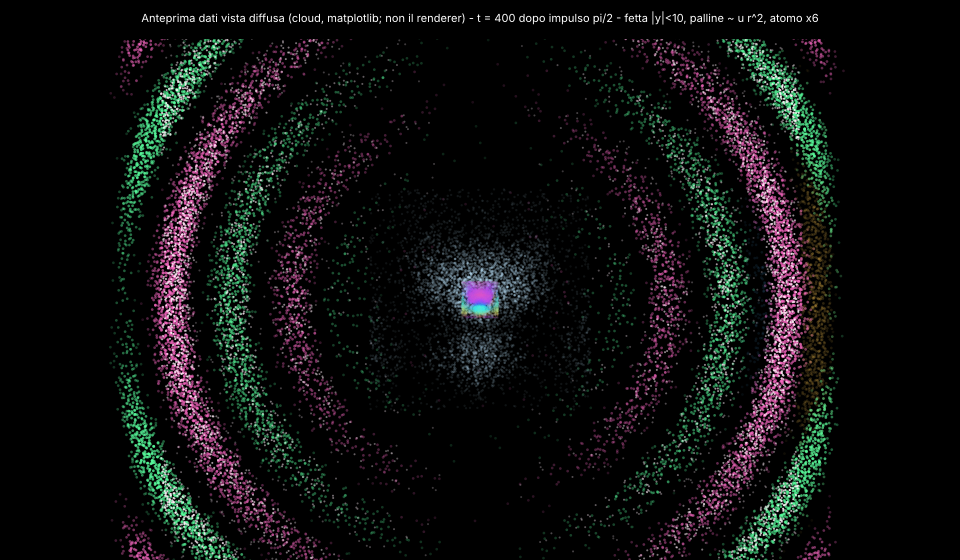
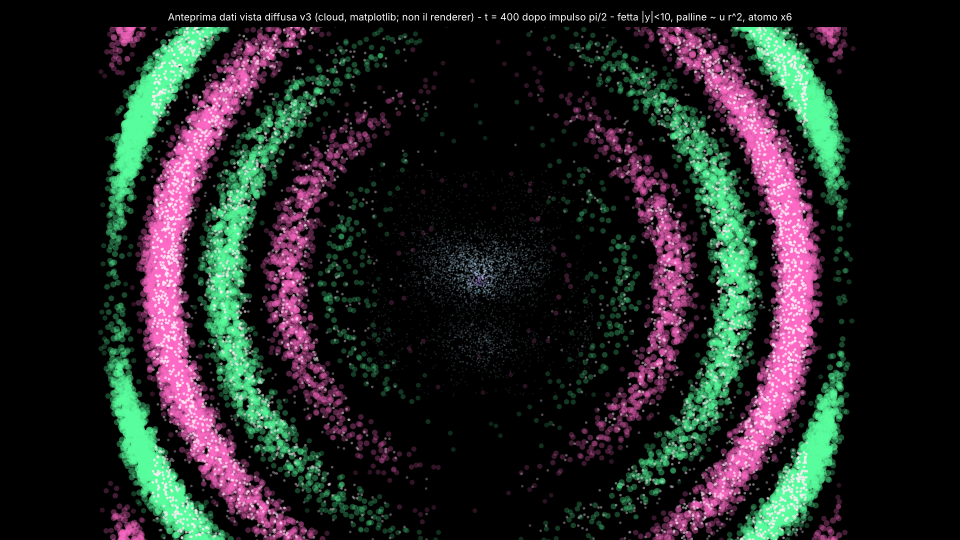
vista diffusa v3: nuvola x6 da campioni di |psi|^2 (via la linea dei surfisti), bagliori di luce diffusa piu' grandi scalati con l'energia, impulso libero sulla scala fissa della partenza; foto 3 in coda

diff --git a/src/atomo/zzscena.rs b/src/atomo/zzscena.rs
@@ -252,19 +252,22 @@ fn palline_luce(m: &Mondo, diffusa: bool) -> Vec<Ball> {
     match (&e.luce.sc, diffusa) {
         (Some(sc), true) => {
             // the free pulse: same slab, own scale (∝ u), dimmed × 0.25
-            let mut v = fetta(&e.luce.f.f, None, false, 0.25, [[1.0, 0.78, 0.32], [0.35, 0.72, 1.0]]);
+            // on the FIXED scale of its launch (u_ref = 2 e_ref², E and B in phase at a crest), so it fades as it leaves
+            let mut v = if m.e_ref > 0.0 { fetta(&e.luce.f.f, Some(2.0 * m.e_ref * m.e_ref), false, 0.2, [[1.0, 0.78, 0.32], [0.35, 0.72, 1.0]]) } else { vec![] };
             if m.e_ref > 0.0 && m.w_max > 0.0 {
                 v.extend(fetta(&sc.f, Some(m.w_max), true, 1.0, [[1.0, 0.42, 0.78], [0.35, 1.0, 0.62]]));
                 v.extend(palline_flusso(m, sc));
             }
             // the electron cloud (balls drawn from |ψ|²) magnified × ZOOM_ATOMO about the nucleus: the dipole source
-            // brightness ∝ √(ρ/ρ_max) where the ball is (as the surfers: thin wave, faint ball)
+            // FRESH samples of |ψ|² every frame (not the surfers: their Bohm paths pile up on the spin axis after the strong
+            // pulse and drew a line), brightness ∝ √(ρ/ρ_max) where the ball is
             let at = &e.at;
             let rho_max = at.psi.iter().map(|p| p.iter().map(|c| c.norm2()).sum::<f64>()).fold(0.0, f64::max).max(1e-300);
-            for p in m.surf.iter().take(5000) {
-                let rho: f64 = at.campiona(*p).iter().map(|c| c.norm2()).sum();
+            let mut rng = Rng::new(at.ticks.wrapping_mul(2654435761) ^ 0x5eed);
+            for p in at.nascite(4000, &mut rng) {
+                let rho: f64 = at.campiona(p).iter().map(|c| c.norm2()).sum();
                 let q = [p[0] * ZOOM_ATOMO, p[1] * ZOOM_ATOMO, p[2] * ZOOM_ATOMO];
-                v.push((schermo(q).to_array(), 3.0, [0.75, 0.9, 1.0, (0.04 + 0.6 * (rho / rho_max).sqrt()) as f32]));
+                v.push((schermo(q).to_array(), 22.0, [0.75, 0.9, 1.0, (0.08 + 0.6 * (rho / rho_max).sqrt()) as f32]));
             }
             v
         }
@@ -347,7 +350,9 @@ fn fetta(f: &[[crate::fotone3d::Cf; 3]], wref: Option<f64>, r2: bool, alpha: f32
         let c = [s / (n * n), (s / n) % n, s % n];
         let pos = [0, 1, 2].map(|c2| (c[c2] as f64 - h as f64 + (crate::rng::hash01(q + c2 as u64) as f64 - 0.5)) * b);
         let cc = if f[s][2].re > 0.0 { col[0] } else { col[1] };
-        Some((schermo(pos).to_array(), 4.0, [cc[0], cc[1], cc[2], alpha * (0.08 + 0.7 * x.sqrt() as f32).min(0.8)]))
+        // glow radius ~ 2.4–4.8 λ_C (the light cell is 4 λ_C; the scene's wave-ball size is 0.096 λ_C per unit when far)
+        let xs = x.sqrt() as f32;
+        Some((schermo(pos).to_array(), 25.0 + 25.0 * xs, [cc[0], cc[1], cc[2], alpha * (0.12 + 0.55 * xs).min(0.8)]))
     }).collect();
     if out.len() > MAX_GRIGLIA {
         let k = MAX_GRIGLIA as f32 / out.len() as f32;
@@ -386,7 +391,7 @@ fn palline_flusso(m: &Mondo, sc: &crate::fotone3d::Fotone3D) -> Vec<Ball> {
         let rr = (p[0] * p[0] + p[1] * p[1] + p[2] * p[2]) / (acc::B_LUCE * acc::B_LUCE);
         let x = (u * rr / m.w_max.max(1e-300)).min(1.0);
         if x < 0.01 { return None; }
-        Some((schermo(*p).to_array(), 2.2, [1.0, 0.93, 0.97, (0.15 + 0.75 * x.sqrt()) as f32]))
+        Some((schermo(*p).to_array(), 15.0, [1.0, 0.93, 0.97, (0.2 + 0.7 * x.sqrt()) as f32]))
     }).collect()
 }
 

diff --git a/docs/ATOMO.md b/docs/ATOMO.md
@@ -446,6 +446,22 @@ t = 400 dopo l'impulso π/2: anelli rosa/verdi alternati, più forti lungo x e s
 flusso a v_r = 0,97 c. Debiti in più: la fetta, il fattore r², la soglia della probabilità e l'ingrandimento dell'atomo sono
 scelte di disegno.
 
+**v3, dopo la seconda foto** (`2026-10-13_foto_diffusa2`, t = 500, A ≈ 115, p_exc 0,741): gli anelli si vedevano ma
+deboli, al centro c'era una **linea bianca verticale** e l'impulso libero faceva bande verticali in alto e in basso. Cause e
+cure (solo disegno, la fisica non cambia):
+- la linea: la nuvola ×6 era fatta con i **surfisti** (traiettorie di Bohm), che dopo l'impulso forte si ammucchiano sull'asse
+  dello spin; ora è fatta con **campioni nuovi di |ψ|² a ogni fotogramma** (4 000), bagliori grandi (raggio ~2 ħ/mc nella
+  scala ×6), luminosità ∝ √(ρ/ρ_max);
+- la debolezza: il renderer dà alle palline d'onda della scena atomo un raggio di 0,096 ħ/mc per unità quando la camera è
+  lontana (pensato per l'atomo, non per la luce a 500 ħ/mc); ora ogni pallina di luce diffusa ha raggio 2,4–4,8 ħ/mc,
+  **crescente con l'energia** (25 + 25 √(w/w_max) unità), alpha 0,12 + 0,55 √(w/w_max); palline di flusso raggio ~1,4 ħ/mc;
+  stesso disegno a bagliori del Laboratorio (`onde`, sfumate), nessuno stile parallelo;
+- le bande: l'impulso libero era disegnato sulla **sua** scala, quindi anche il resto che esce nella spugna si accendeva
+  tutto; ora è sulla scala **fissa della partenza** (u_ref = 2 e_ref²), alpha ×0,2: sparisce man mano che esce.
+- la scritta in alto (egui) **non compare in nessuna foto del ponte** (neanche nelle vecchie): lo screenshot prende la scena
+  senza il pannello; il fattore A e p_exc sono nel `log.txt` della foto (riga "foto al frame ...").
+Anteprima aggiornata `lab/out/diffusa_anteprima.png` (dati veri, matplotlib senza bagliore).
+
 Il fotone sparato aspetta l'atomo pronto (prima, se si premeva F durante la preparazione, andava all'atomo non
 accoppiato con la frequenza sbagliata). Per le foto dal ponte: `spara-al` ora aspetta la preparazione e la foto si fa
 (`frames` − `spara-al`) fotogrammi dopo lo sparo vero; flag nuovi (validati in `ponte/ponte.py`): `spara-pronto`,
